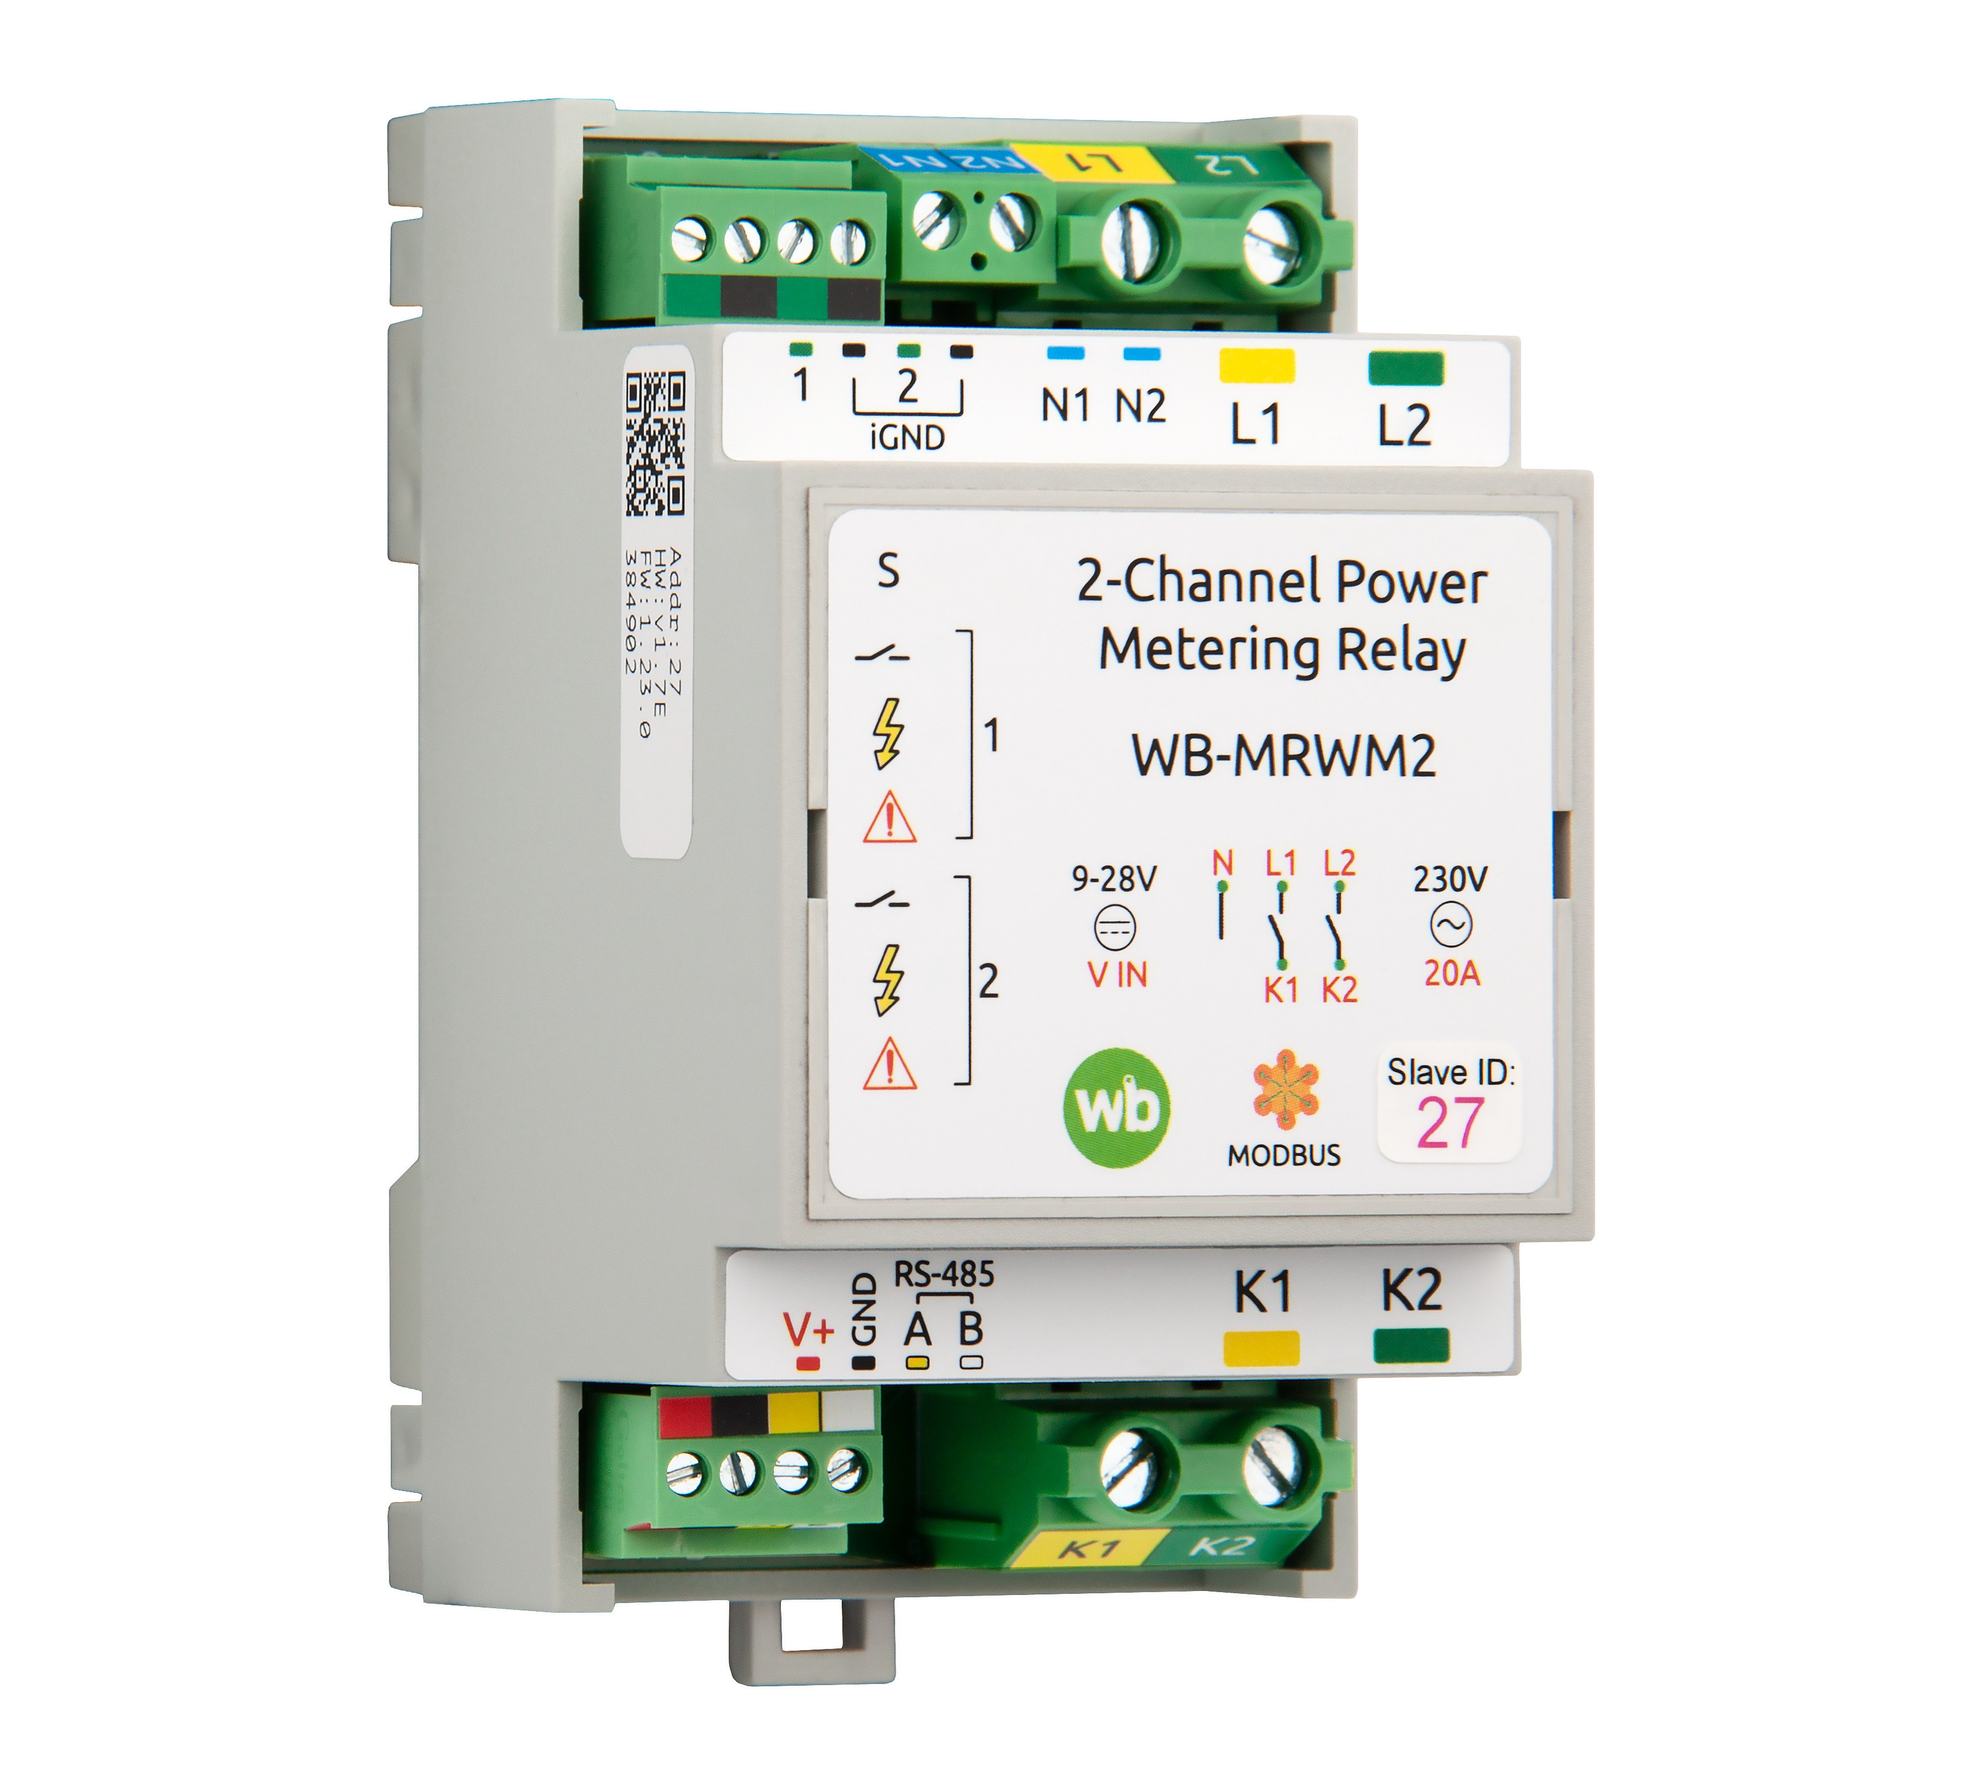
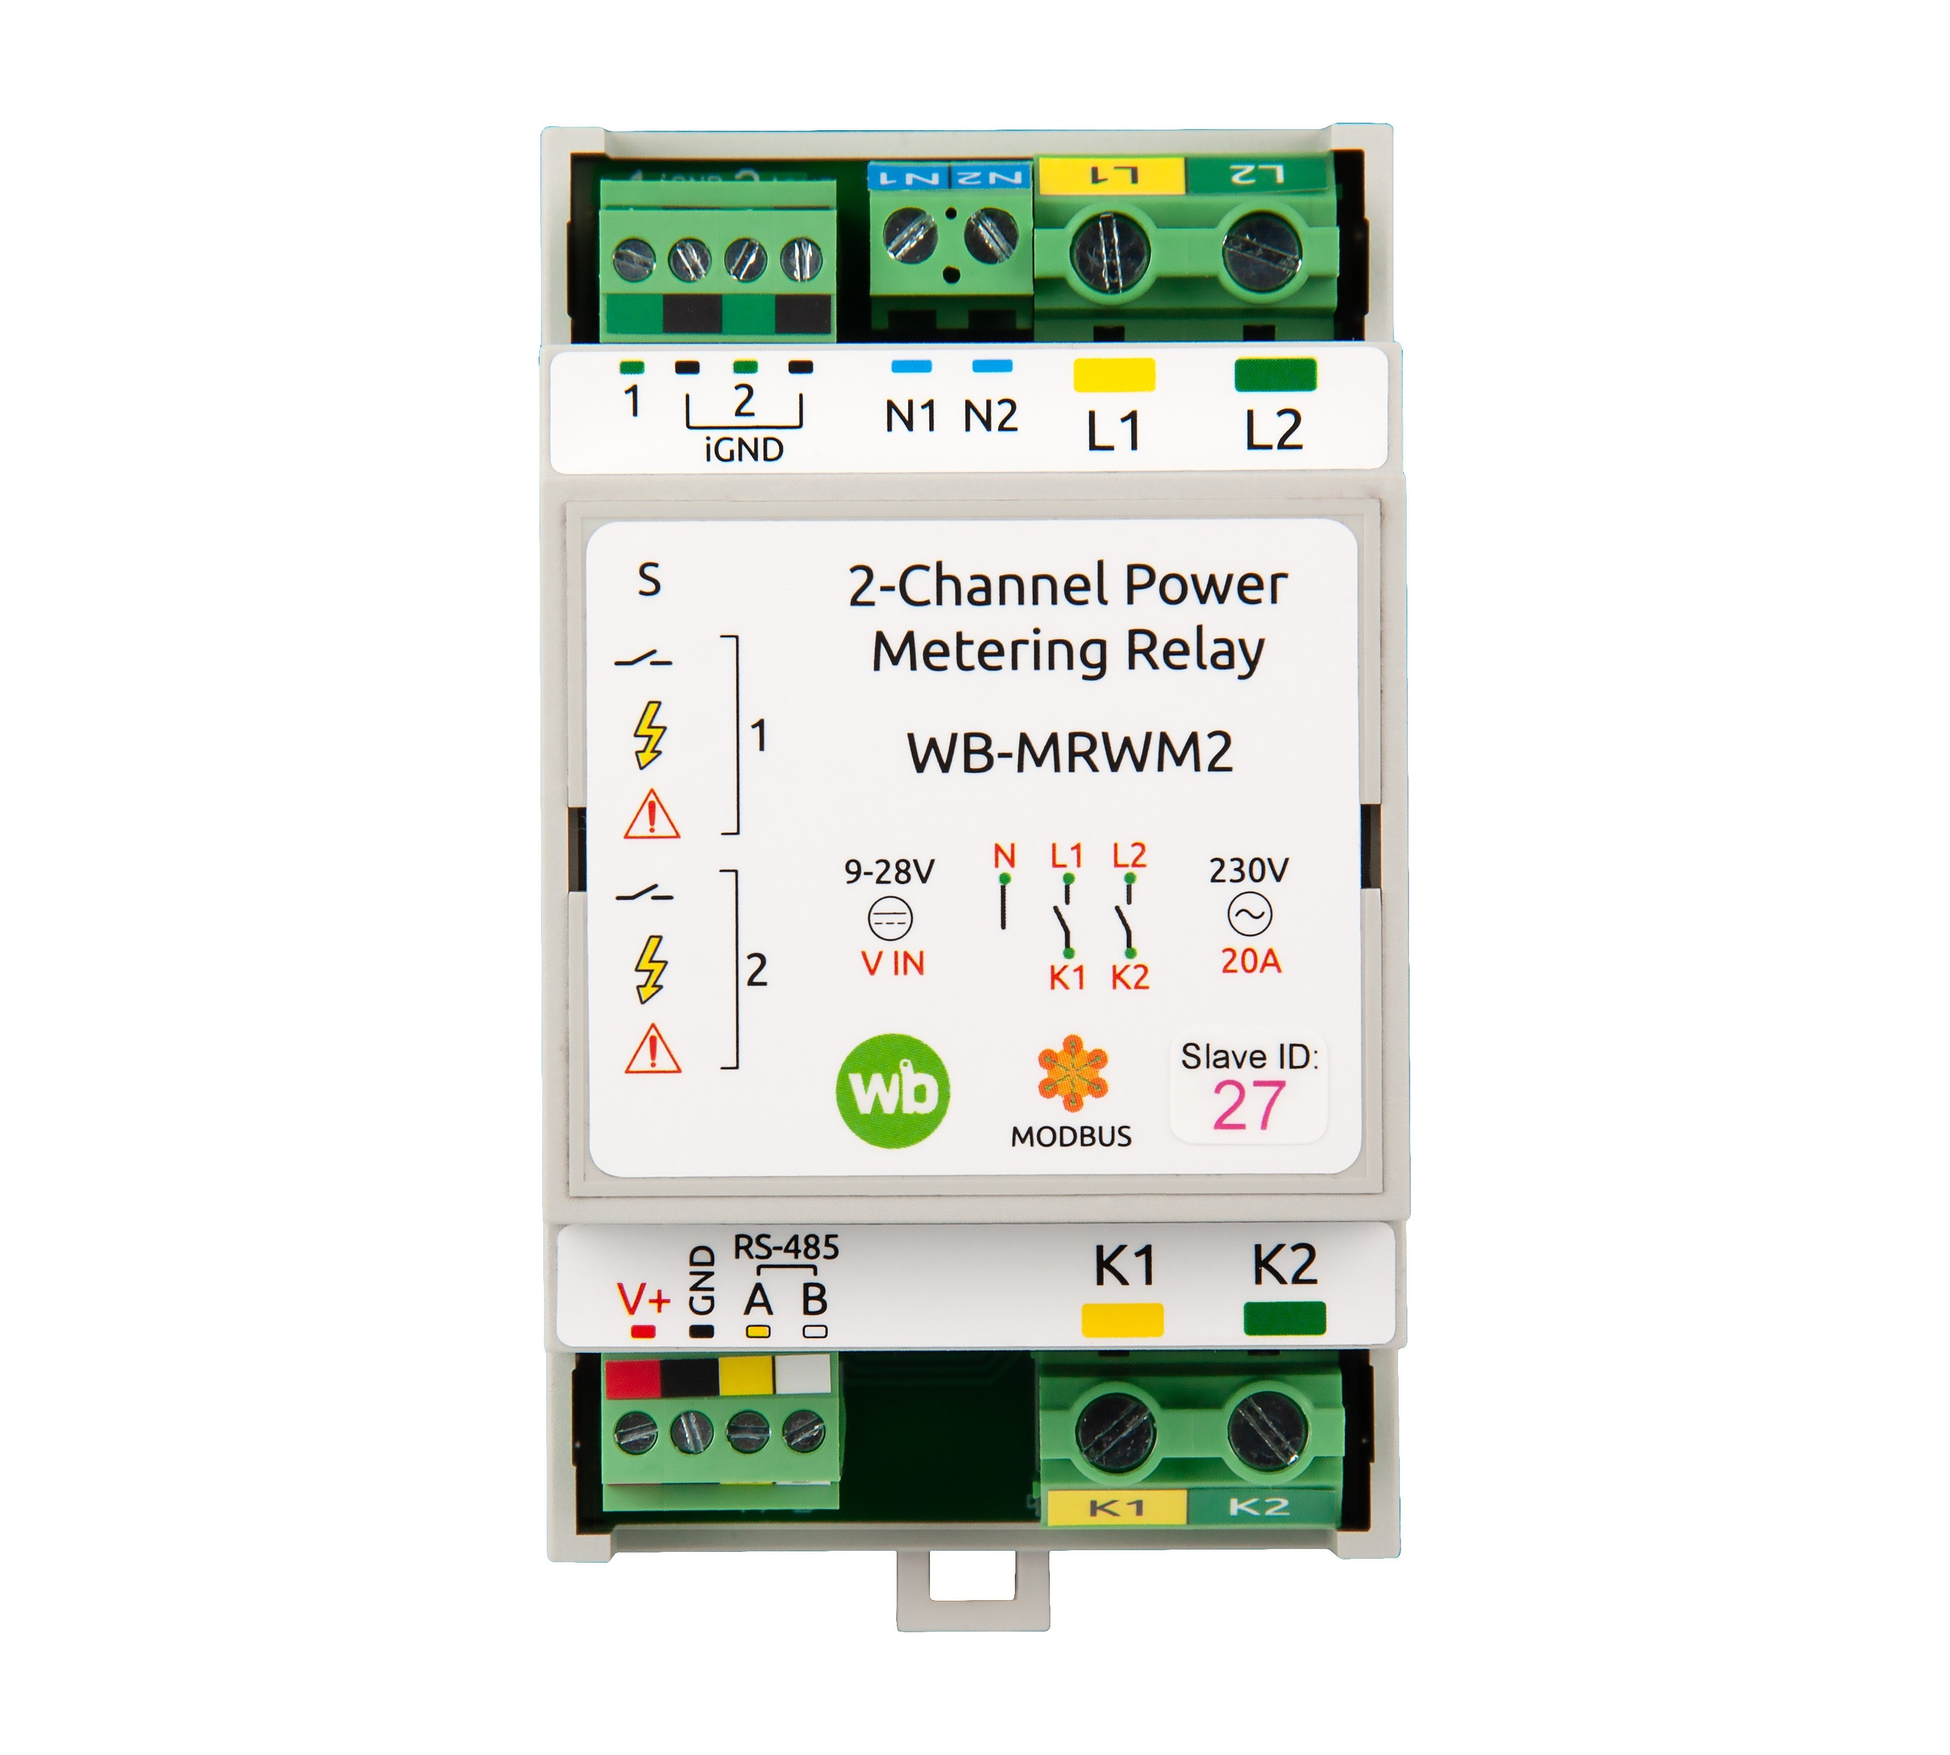
Обновил картинки и галереи карточек реле WB-MR (MAR-2735) (#654)
Девять карточек: WB-MR6C v.3, WB-MR6C v.2, WB-MR6CU v.2, WB-MRWL3,
WB-MR6LV/L, WB-MRPS6/S, WB-MRM2-mini v.2, WB-MR3LV, WB-MRWM2.

- «Преимущества»: плитка заменена фото устройства в 3/4 на белом
  холсте 10:9 (`<slug>-photo-34.png`), старые `-advantages.png` удалены.
- WB-MRWM2: в «Аппаратной части» фото спереди, чтобы не повторять 3/4.
- WB-MR6C v.3, WB-MRWL3: `<br>` в конце первой секции — в RU линия
  прилипала к тексту.
- EN: «Key features» → «Key Features».
- Галереи: корпус спереди → 3/4 → плата → габариты → контакты → схемы;
  недостающие фото корпуса — копии обложек (`-front`, `-34`).

Changed region(s): [[0.1871, 0.0311, 0.8108, 0.9627]]

diff --git a/content/ru/catalog/wb-mr6c_v3.md b/content/ru/catalog/wb-mr6c_v3.md
@@ -4,11 +4,12 @@ cover: "wb-mr6c_v3/cover.png"
 catalogCover: "wb-mr6c_v3/catalog-cover.png"
 images: [
   ["wb-mr6c_v3/wb-mr6c_v3-10.png"],
-  ["wb-mr6c_v3/wb-mr6c_v3-11.png"],
+  ["wb-mr6c_v3/wb-mr6c_v3-34.png"],
+  ["wb-mr6c_v3/wb-mr6c_v3-15.png"],
   ["wb-mr6c_v3/wb-mr6c_v3-12.png"],
+  ["wb-mr6c_v3/wb-mr6c_v3-11.png"],
   ["wb-mr6c_v3/wb-mr6c_v3-13.png"],
-  ["wb-mr6c_v3/wb-mr6c_v3-14.png"],
-  ["wb-mr6c_v3/wb-mr6c_v3-15.png"]
+  ["wb-mr6c_v3/wb-mr6c_v3-14.png"]
 ]
 documentation: "https://wirenboard.com/wiki/WB-MR6C_v.3_Modbus_Relay_Modules"
 meta: "RS-485, Modbus RTU модуль реле"
@@ -38,7 +39,7 @@ video: [
 
 ::product-section{title="Преимущества"}
 :photo{
-  src="wb-mr6c_v3/wb-mr6c_v3-advantages.png"
+  src="wb-mr6c_v3/wb-mr6c_v3-photo-34.png"
   width="500px"
   float="right"
 }
@@ -58,6 +59,8 @@ video: [
 - возможно нанесение логотипа вашей компании.
 
 Поддерживает [Быстрый Modbus](https://wirenboard.com/wiki/Fast_Modbus) ⚡, что позволяет мгновенно доставлять состояния входов и значения счетчиков нажатий в контроллер Wiren Board.
+
+<br>
 ::
 
 ::product-section{title="Аппаратная часть"}

diff --git a/content/en/catalog/wb-mr6c_v3.md b/content/en/catalog/wb-mr6c_v3.md
@@ -4,11 +4,12 @@ cover: "wb-mr6c_v3/cover.png"
 catalogCover: "wb-mr6c_v3/catalog-cover.png"
 images: [
   ["wb-mr6c_v3/wb-mr6c_v3-10.png"],
-  ["wb-mr6c_v3/wb-mr6c_v3-11.png"],
+  ["wb-mr6c_v3/wb-mr6c_v3-34.png"],
+  ["wb-mr6c_v3/wb-mr6c_v3-15.png"],
   ["wb-mr6c_v3/wb-mr6c_v3-12.png"],
+  ["wb-mr6c_v3/wb-mr6c_v3-11.png"],
   ["wb-mr6c_v3/wb-mr6c_v3-13.png"],
-  ["wb-mr6c_v3/wb-mr6c_v3-14.png"],
-  ["wb-mr6c_v3/wb-mr6c_v3-15.png"]
+  ["wb-mr6c_v3/wb-mr6c_v3-14.png"]
 ]
 meta: "RS-485, Modbus RTU Relay module"
 keywords: "RS-485, Modbus RTU"
@@ -26,11 +27,11 @@ Rated current: 10 A, inrush current: up to 80 A (20 ms).
 
 #info
 
-## Key features
+## Key Features
 
 ::product-section{title="Advantages"}
 :photo{
-  src="wb-mr6c_v3/wb-mr6c_v3-advantages.png"
+  src="wb-mr6c_v3/wb-mr6c_v3-photo-34.png"
   width="500px"
   float="right"
 }
@@ -49,6 +50,8 @@ Rated current: 10 A, inrush current: up to 80 A (20 ms).
 - Your company logo can be applied.
 
 Supports [Fast Modbus](https://wiki.wirenboard.com/wiki/Fast_Modbus/en) ⚡, which allows you to instantly deliver input states and button press counter values to the Wiren Board controller.
+
+<br>
 ::
 
 ::product-section{title="Hardware"}

diff --git a/content/ru/catalog/wb-mrwl3.md b/content/ru/catalog/wb-mrwl3.md
@@ -3,9 +3,10 @@ article: "WB-MRWL3"
 cover: "wb-mrwl3/cover.png"
 catalogCover: "wb-mrwl3/catalog-cover.png"
 images: [
-  ["wb-mrwl3/cover.png"],
-  ["wb-mrwl3/wb-mrwl3-10.png"],
-  ["wb-mrwl3/wb-mrwl3-11.png"]
+  ["wb-mrwl3/wb-mrwl3-front.png"],
+  ["wb-mrwl3/wb-mrwl3-34.png"],
+  ["wb-mrwl3/wb-mrwl3-11.png"],
+  ["wb-mrwl3/wb-mrwl3-10.png"]
 ]
 documentation: "https://wirenboard.com/wiki/index.php/WB-MRWL3_Modbus_Relay_Module"
 meta: "Модуль реле с RS-485, Modbus RTU"
@@ -33,7 +34,7 @@ video: [
 
 ::product-section{title="Преимущества"}
 :photo{
-  src="wb-mrwl3/wb-mrwl3-advantages.png"
+  src="wb-mrwl3/wb-mrwl3-photo-34.png"
   width="500px"
   float="right"
 }
@@ -53,6 +54,8 @@ video: [
 - возможно нанесение логотипа вашей компании.
 
 Поддерживает [Быстрый Modbus](https://wirenboard.com/wiki/Fast_Modbus) ⚡, что позволяет мгновенно доставлять состояния входов и значения счетчиков нажатий в контроллер Wiren Board.
+
+<br>
 ::
 
 ::product-section{title="Аппаратная часть"}

diff --git a/content/en/catalog/wb-mrwl3.md b/content/en/catalog/wb-mrwl3.md
@@ -3,9 +3,10 @@ article: "WB-MRWL3"
 cover: "wb-mrwl3/cover.png"
 catalogCover: "wb-mrwl3/catalog-cover.png"
 images: [
-  ["wb-mrwl3/cover.png"],
-  ["wb-mrwl3/wb-mrwl3-10.png"],
-  ["wb-mrwl3/wb-mrwl3-11.png"]
+  ["wb-mrwl3/wb-mrwl3-front.png"],
+  ["wb-mrwl3/wb-mrwl3-34.png"],
+  ["wb-mrwl3/wb-mrwl3-11.png"],
+  ["wb-mrwl3/wb-mrwl3-10.png"]
 ]
 documentation: "https://wirenboard.com/wiki/WB-MRWL3_Modbus_Relay_Modules/en"
 meta: "RS-485, Modbus RTU relay module"
@@ -22,11 +23,11 @@ Rated current: 20 A, inrush current: up to 80 A (20 ms).
 
 #info
 
-## Key features
+## Key Features
 
 ::product-section{title="Advantages"}
 :photo{
-  src="wb-mrwl3/wb-mrwl3-advantages.png"
+  src="wb-mrwl3/wb-mrwl3-photo-34.png"
   width="500px"
   float="right"
 }
@@ -45,6 +46,8 @@ Rated current: 20 A, inrush current: up to 80 A (20 ms).
 - Your company logo can be applied.
 
 Supports [Fast Modbus](https://wiki.wirenboard.com/wiki/Fast_Modbus/en) ⚡, which allows you to instantly deliver input states and button press counter values to the Wiren Board controller.
+
+<br>
 ::
 
 ::product-section{title="Hardware"}

diff --git a/content/en/catalog/wb-mrm2-mini.md b/content/en/catalog/wb-mrm2-mini.md
@@ -3,11 +3,11 @@ article: "WB-MRM2-mini"
 cover: "wb-mrm2-mini/cover.png"
 catalogCover: "wb-mrm2-mini/catalog-cover.png"
 images: [
-  ["wb-mrm2-mini/cover.png"],
-  ["wb-mrm2-mini/wb-mrm2-mini-9.png"],
   ["wb-mrm2-mini/wb-mrm2-mini-10.png"],
+  ["wb-mrm2-mini/wb-mrm2-mini-34.png"],
   ["wb-mrm2-mini/wb-mrm2-mini-11.png"],
-  ["wb-mrm2-mini/wb-mrm2-mini-12.png"]
+  ["wb-mrm2-mini/wb-mrm2-mini-12.png"],
+  ["wb-mrm2-mini/wb-mrm2-mini-9.png"]
 ]
 documentation: "https://wirenboard.com/wiki/WB-MRM2-mini_Modbus_Relay_Modules/en"
 meta: "Plug-in module WB-MRM2-mini"
@@ -26,11 +26,11 @@ Rated current (NO/NC): 10/2 A, inrush current: up to 80 A (20 ms).
 
 #info
 
-## Key features
+## Key Features
 
 ::product-section{title="Advantages"}
 :photo{
-  src="wb-mrm2-mini/wb-mrm2-mini-advantages.png"
+  src="wb-mrm2-mini/wb-mrm2-mini-photo-34.png"
   width="500px"
   float="right"
 }

diff --git a/content/en/catalog/wb-mr6cu.md b/content/en/catalog/wb-mr6cu.md
@@ -3,11 +3,11 @@ article: "WB-MR6CU v.2"
 cover: "wb-mr6cu/cover.png"
 catalogCover: "wb-mr6cu/catalog-cover.png"
 images: [
-  ["wb-mr6cu/cover.png"],
-  ["wb-mr6cu/wb-mr6cu-9.png"],
+  ["wb-mr6cu/wb-mr6cu-front.png"],
+  ["wb-mr6cu/wb-mr6cu-12.png"],
   ["wb-mr6cu/wb-mr6cu-10.png"],
-  ["wb-mr6cu/wb-mr6cu-11.png"],
-  ["wb-mr6cu/wb-mr6cu-12.png"]
+  ["wb-mr6cu/wb-mr6cu-9.png"],
+  ["wb-mr6cu/wb-mr6cu-11.png"]
 ]
 meta: "Сompact RS-485, Modbus RTU Relay module"
 keywords: "Сompact RS-485, Modbus RTU Relay module"
@@ -23,11 +23,11 @@ Rated current: 10 A, inrush current: up to 80 A (20 ms).
 
 #info
 
-## Key features
+## Key Features
 
 ::product-section{title="Advantages"}
 :photo{
-  src="wb-mr6cu/wb-mr6cu-advantages.png"
+  src="wb-mr6cu/wb-mr6cu-photo-34.png"
   width="500px"
   float="right"
 }

diff --git a/content/ru/catalog/wb-mrm2-mini.md b/content/ru/catalog/wb-mrm2-mini.md
@@ -3,11 +3,11 @@ article: "WB-MRM2-mini"
 cover: "wb-mrm2-mini/cover.png"
 catalogCover: "wb-mrm2-mini/catalog-cover.png"
 images: [
-  ["wb-mrm2-mini/cover.png"],
-  ["wb-mrm2-mini/wb-mrm2-mini-9.png"],
   ["wb-mrm2-mini/wb-mrm2-mini-10.png"],
+  ["wb-mrm2-mini/wb-mrm2-mini-34.png"],
   ["wb-mrm2-mini/wb-mrm2-mini-11.png"],
-  ["wb-mrm2-mini/wb-mrm2-mini-12.png"]
+  ["wb-mrm2-mini/wb-mrm2-mini-12.png"],
+  ["wb-mrm2-mini/wb-mrm2-mini-9.png"]
 ]
 documentation: "https://wirenboard.com/wiki/index.php/WB-MRM2-mini"
 meta: "Встраиваемый модуль c RS-485, Modbus RTU"
@@ -37,7 +37,7 @@ video: [
 
 ::product-section{title="Преимущества"}
 :photo{
-  src="wb-mrm2-mini/wb-mrm2-mini-advantages.png"
+  src="wb-mrm2-mini/wb-mrm2-mini-photo-34.png"
   width="500px"
   float="right"
 }

diff --git a/content/ru/catalog/wb-mr6cu.md b/content/ru/catalog/wb-mr6cu.md
@@ -3,11 +3,11 @@ article: "WB-MR6CU v.2"
 cover: "wb-mr6cu/cover.png"
 catalogCover: "wb-mr6cu/catalog-cover.png"
 images: [
-  ["wb-mr6cu/cover.png"],
-  ["wb-mr6cu/wb-mr6cu-9.png"],
+  ["wb-mr6cu/wb-mr6cu-front.png"],
+  ["wb-mr6cu/wb-mr6cu-12.png"],
   ["wb-mr6cu/wb-mr6cu-10.png"],
-  ["wb-mr6cu/wb-mr6cu-11.png"],
-  ["wb-mr6cu/wb-mr6cu-12.png"]
+  ["wb-mr6cu/wb-mr6cu-9.png"],
+  ["wb-mr6cu/wb-mr6cu-11.png"]
 ]
 documentation: "https://wirenboard.com/wiki/index.php/WB-MR6CU_v.2_Modbus_Relay_Modules"
 meta: "Компактный модуль реле с RS-485, Modbus RTU"
@@ -35,7 +35,7 @@ video: [
 
 ::product-section{title="Преимущества"}
 :photo{
-  src="wb-mr6cu/wb-mr6cu-advantages.png"
+  src="wb-mr6cu/wb-mr6cu-photo-34.png"
   width="500px"
   float="right"
 }

diff --git a/content/en/catalog/wb-mrwm2.md b/content/en/catalog/wb-mrwm2.md
@@ -5,8 +5,8 @@ catalogCover: "wb-mrwm2/catalog-cover.png"
 images: [
   ["wb-mrwm2/wb-mrwm2-front.jpg"],
   ["wb-mrwm2/wb-mrwm2-34.jpg"],
-  ["wb-mrwm2/wb-mrwm2-1.png"],
-  ["wb-mrwm2/wb-mrwm2-2.png"]
+  ["wb-mrwm2/wb-mrwm2-2.png"],
+  ["wb-mrwm2/wb-mrwm2-1.png"]
 ]
 meta: "Two-channel module with high-power relays and power measurement"
 keywords: "Two-channel module with high-power relays and power measurement"
@@ -24,11 +24,11 @@ Rated current: 20 A, inrush current: up to 80 A (20 ms).
 
 #info
 
-## Key features
+## Key Features
 
 ::product-section{title="Advantages"}
 :photo{
-  src="wb-mrwm2/wb-mrwm2-advantages.png"
+  src="wb-mrwm2/wb-mrwm2-photo-34.png"
   width="500px"
   float="right"
 }

diff --git a/content/en/catalog/wb-mr3.md b/content/en/catalog/wb-mr3.md
@@ -3,10 +3,10 @@ article: "00115"
 cover: "wb-mr3/cover.png"
 catalogCover: "wb-mr3/catalog-cover.png"
 images: [
-  ["wb-mr3/cover.png"],
+  ["wb-mr3/wb-mr3-front.png"],
   ["wb-mr3/wb-mr3-side.png"],
-  ["wb-mr3/wb-mr3-11.png"],
-  ["wb-mr3/wb-mr3-12.png"]
+  ["wb-mr3/wb-mr3-12.png"],
+  ["wb-mr3/wb-mr3-11.png"]
 ]
 meta: "RS-485, Modbus RTU Relay module WB-MR3-LV"
 keywords: "RS-485, Modbus RTU"
@@ -24,11 +24,11 @@ Rated current: 10 A, inrush current (I/S): up to 120/165 A (20 ms).
 
 #info
 
-## Key features
+## Key Features
 
 ::product-section{title="Advantages"}
 :photo{
-  src="wb-mr3/wb-mr3-advantages.png"
+  src="wb-mr3/wb-mr3-photo-34.png"
   width="500px"
   float="right"
 }

diff --git a/content/ru/catalog/wb-mr3.md b/content/ru/catalog/wb-mr3.md
@@ -3,10 +3,10 @@ article: "00115"
 cover: "wb-mr3/cover.png"
 catalogCover: "wb-mr3/catalog-cover.png"
 images: [
-  ["wb-mr3/cover.png"],
+  ["wb-mr3/wb-mr3-front.png"],
   ["wb-mr3/wb-mr3-side.png"],
-  ["wb-mr3/wb-mr3-11.png"],
-  ["wb-mr3/wb-mr3-12.png"]
+  ["wb-mr3/wb-mr3-12.png"],
+  ["wb-mr3/wb-mr3-11.png"]
 ]
 documentation: "https://wirenboard.com/wiki/index.php/WB-MR3xV_and_WB-MR6xV_Modbus_Relay_Modules"
 meta: "Модуль реле c RS-485, Modbus RTU"
@@ -36,7 +36,7 @@ video: [
 
 ::product-section{title="Преимущества"}
 :photo{
-  src="wb-mr3/wb-mr3-advantages.png"
+  src="wb-mr3/wb-mr3-photo-34.png"
   width="500px"
   float="right"
 }

diff --git a/content/ru/catalog/wb-mrwm2.md b/content/ru/catalog/wb-mrwm2.md
@@ -5,8 +5,8 @@ catalogCover: "wb-mrwm2/catalog-cover.png"
 images: [
   ["wb-mrwm2/wb-mrwm2-front.jpg"],
   ["wb-mrwm2/wb-mrwm2-34.jpg"],
-  ["wb-mrwm2/wb-mrwm2-1.png"],
-  ["wb-mrwm2/wb-mrwm2-2.png"]
+  ["wb-mrwm2/wb-mrwm2-2.png"],
+  ["wb-mrwm2/wb-mrwm2-1.png"]
 ]
 documentation: "https://wirenboard.com/wiki/WB-MRWM2_Modbus_Relay_Modules"
 meta: "Модуль реле  RS-485, Modbus RTU c измерением мощности"
@@ -36,7 +36,7 @@ video: [
 
 ::product-section{title="Преимущества"}
 :photo{
-  src="wb-mrwm2/wb-mrwm2-advantages.png"
+  src="wb-mrwm2/wb-mrwm2-photo-34.png"
   width="500px"
   float="right"
 }
